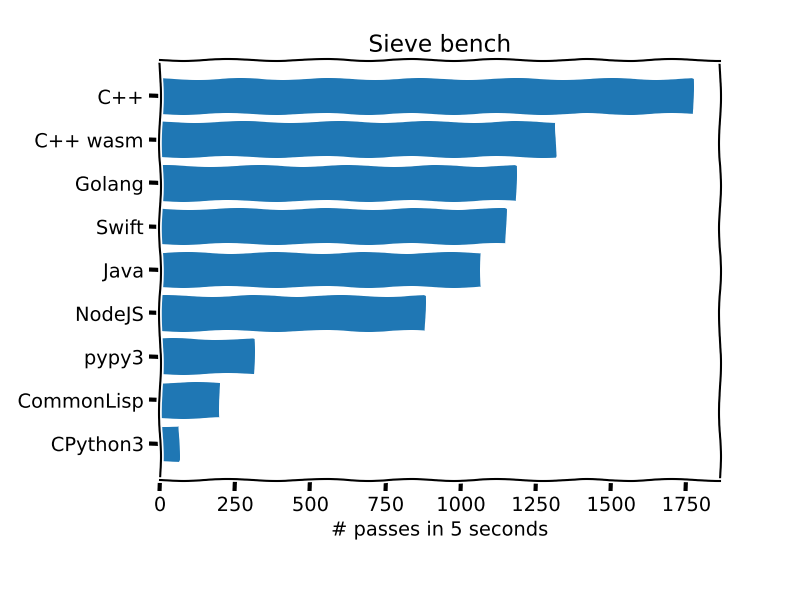
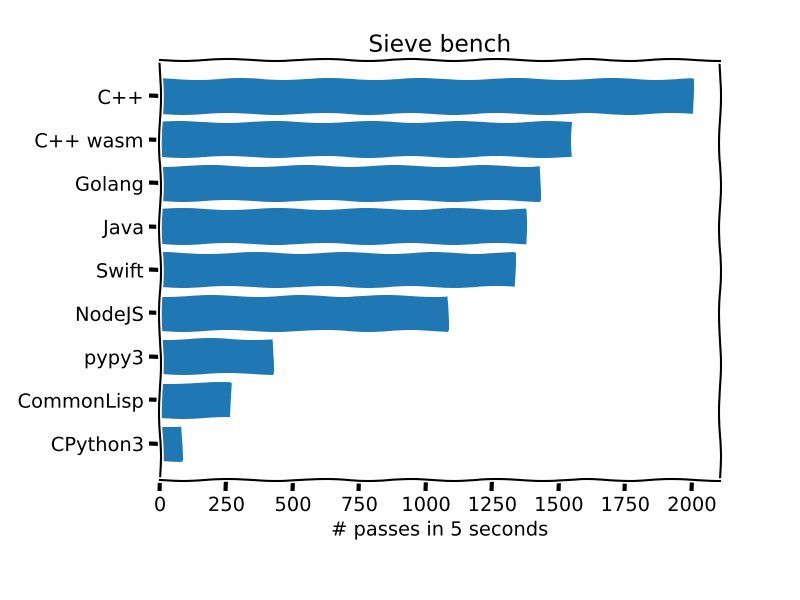
deploy: 038446ab896377e5defa6c4ecfe12efe84636b20

diff --git a/results/index.html b/results/index.html
@@ -279,74 +279,74 @@ Description:    Ubuntu 20.04.3 LTS
 Release:    20.04
 Codename:   focal
 
-Linux fv-az278-100 5.11.0-1021-azure #22~20.04.1-Ubuntu SMP Fri Oct 29 01:11:25 UTC 2021 x86_64 x86_64 x86_64 GNU/Linux
+Linux fv-az275-49 5.11.0-1021-azure #22~20.04.1-Ubuntu SMP Fri Oct 29 01:11:25 UTC 2021 x86_64 x86_64 x86_64 GNU/Linux
 
 
-1773
+2006
 C++
 g++ (Ubuntu 9.3.0-17ubuntu1~20.04) 9.3.0
 Copyright (C) 2019 Free Software Foundation, Inc.
 This is free software; see the source for copying conditions.  There is NO
 warranty; not even for MERCHANTABILITY or FITNESS FOR A PARTICULAR PURPOSE.
 
-1316
+1551
 C++ wasm
 emcc (Emscripten gcc/clang-like replacement + linker emulating GNU ld) 3.0.0 (3fd52e107187b8a169bb04a02b9f982c8a075205)
 Copyright (C) 2014 the Emscripten authors (see AUTHORS.txt)
 This is free and open source software under the MIT license.
 There is NO warranty; not even for MERCHANTABILITY or FITNESS FOR A PARTICULAR PURPOSE.
 
-1773
+2006
 C++
 g++ (Ubuntu 9.3.0-17ubuntu1~20.04) 9.3.0
 Copyright (C) 2019 Free Software Foundation, Inc.
 This is free software; see the source for copying conditions.  There is NO
 warranty; not even for MERCHANTABILITY or FITNESS FOR A PARTICULAR PURPOSE.
 
-1316
+1551
 C++ wasm
 emcc (Emscripten gcc/clang-like replacement + linker emulating GNU ld) 3.0.0 (3fd52e107187b8a169bb04a02b9f982c8a075205)
 Copyright (C) 2014 the Emscripten authors (see AUTHORS.txt)
 This is free and open source software under the MIT license.
 There is NO warranty; not even for MERCHANTABILITY or FITNESS FOR A PARTICULAR PURPOSE.
 
-1183
+1431
 Golang
 go version go1.13.8 linux/amd64
 
-1149
-Swift
-Swift version 5.5.1 (swift-5.5.1-RELEASE)
-Target: x86_64-unknown-linux-gnu
-
-1067
+1378
 Java
 openjdk 11.0.11 2021-04-20
 OpenJDK Runtime Environment AdoptOpenJDK-11.0.11+9 (build 11.0.11+9)
 OpenJDK 64-Bit Server VM AdoptOpenJDK-11.0.11+9 (build 11.0.11+9, mixed mode)
 
-880
+1337
+Swift
+Swift version 5.5.1 (swift-5.5.1-RELEASE)
+Target: x86_64-unknown-linux-gnu
+
+1084
 NodeJS
 v14.18.1
 
-64
+81
 CPython3
 Python 3.8.10
 
-312
+426
 pypy3
 Python 3.6.9 (7.3.1+dfsg-4, Apr 22 2020, 05:15:29)
 [PyPy 7.3.1 with GCC 9.3.0]
 
-201
+266
 CommonLisp
 SBCL 2.0.1.debian
 
-64
+81
 CPython3
 Python 3.8.10
 
-312
+426
 pypy3
 Python 3.6.9 (7.3.1+dfsg-4, Apr 22 2020, 05:15:29)
 [PyPy 7.3.1 with GCC 9.3.0]
